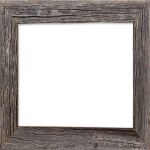
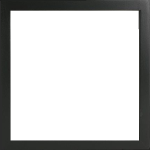
change frame

diff --git a/src/js/game/View.js b/src/js/game/View.js
@@ -327,7 +327,7 @@ function addVerticalRays(numPics) {
 }
 
 function addImageFrame() {
-    let frame = '<img class="frame-overlay no-select" src="img/frame-4.png" alt="Bilderrahmen">'
+    let frame = '<img class="frame-overlay no-select" src="img/frame-5.png" alt="Bilderrahmen">'
     $(frame).insertAfter('.tile-square')
 }
 
